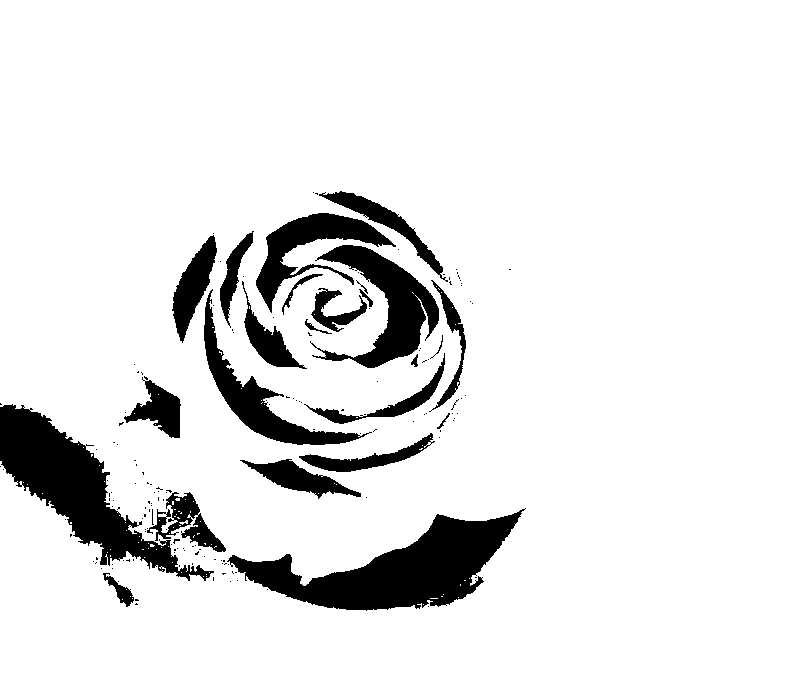
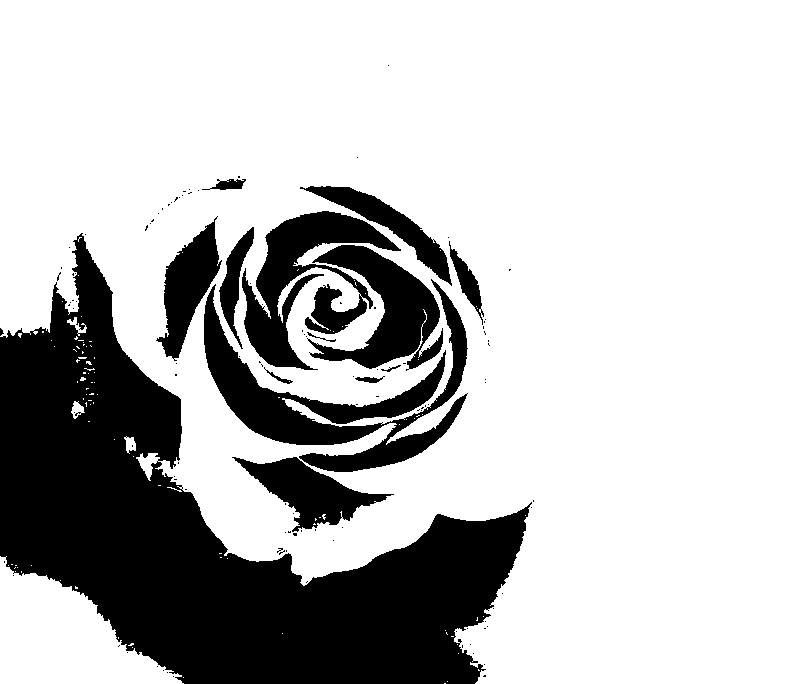
edit hw08

diff --git a/hw08/main.py b/hw08/main.py
@@ -2,26 +2,13 @@ import cv2
 import numpy as np
 
 
-def myThreshold(img, threshold_value, max_value, threshold_type):
-    output = np.zeros_like(img)
-
-    for i in range(img.shape[0]):
-        for j in range(img.shape[1]):
-            if threshold_type == cv2.THRESH_BINARY:
-                if img[i,j] > threshold_value:
-                    output[i,j] = max_value
-                else:
-                    output[i,j] = 0
-            elif threshold_type == cv2.THRESH_BINARY_INV:
-                if img[i,j] > threshold_value:
-                    output[i,j] = 0
-                else:
-                    output[i,j] = max_value
-    return output
+def myThreshold(img):
+    _, thresh = cv2.threshold(img, 0, 255, cv2.THRESH_BINARY | cv2.THRESH_OTSU)
+    return thresh
 
 if __name__ == '__main__':
     img = cv2.imread('flower.jpeg', cv2.IMREAD_GRAYSCALE)
-    threshold= myThreshold(img, 127, 255, cv2.THRESH_BINARY)
+    threshold= myThreshold(img)
 
     cv2.imshow('Flower', img)
     cv2.imshow('Thresholded', threshold)
